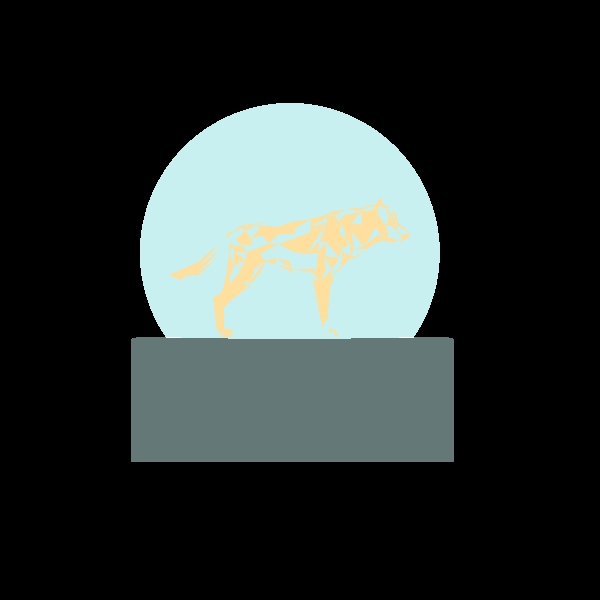
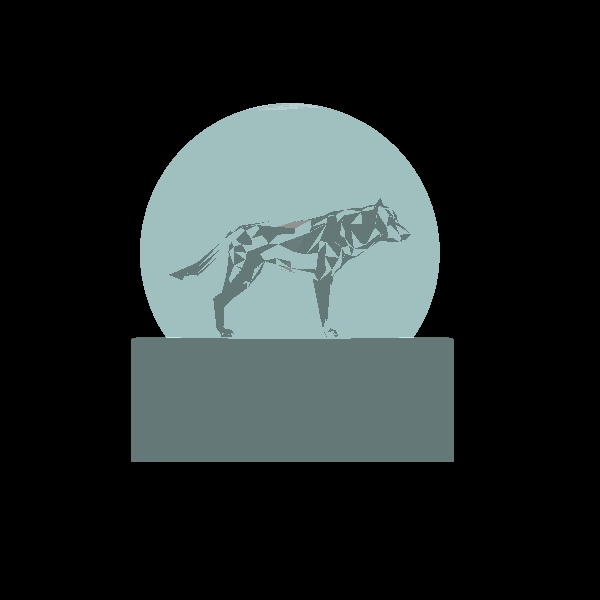
ajout du point et du coeff dans le loup ( deplacable et agrandissable en 1 clic )

Changed region(s): [[0.21, 0.15, 0.75, 0.57]]

diff --git a/unitTest/Private/Wolf_1Test.java b/unitTest/Private/Wolf_1Test.java
@@ -83,15 +83,16 @@ public class Wolf_1Test {
                 .build();
 
         scene.addGeometries( //
-                             new Sphere(new Color(100, 120, 120), new Material(0, 0.8, 60,1,0),200,
+                             new Sphere(new Color(100, 120, 120), new Material(0.5, 0.5, 30,0.6,0),200,
                                         new Point3D(0, 112.7280955, -13.568478)),
 
                              new Cube(new Color(100, 120, 120), new Material(0, 0.8, 60),
                                         new Point3D(-200, -160, -220), 400, 159.59,420),
 
+
                              new Wolf_1(
-                                  new Color(167, 103, 38),
-                                 new Material(0, 0, 30),new Point3D(0,0,0),1)
+                                  new Color(Color.BLACK),
+                                 new Material(0.5, 0.5, 30),new Point3D(0,0,0),1)
                              //new Wolf_2(
                                //      new Color(167, 103, 38),
                                  //   new Material(0, 0, 30),new Point3D(0,0,0),1)
